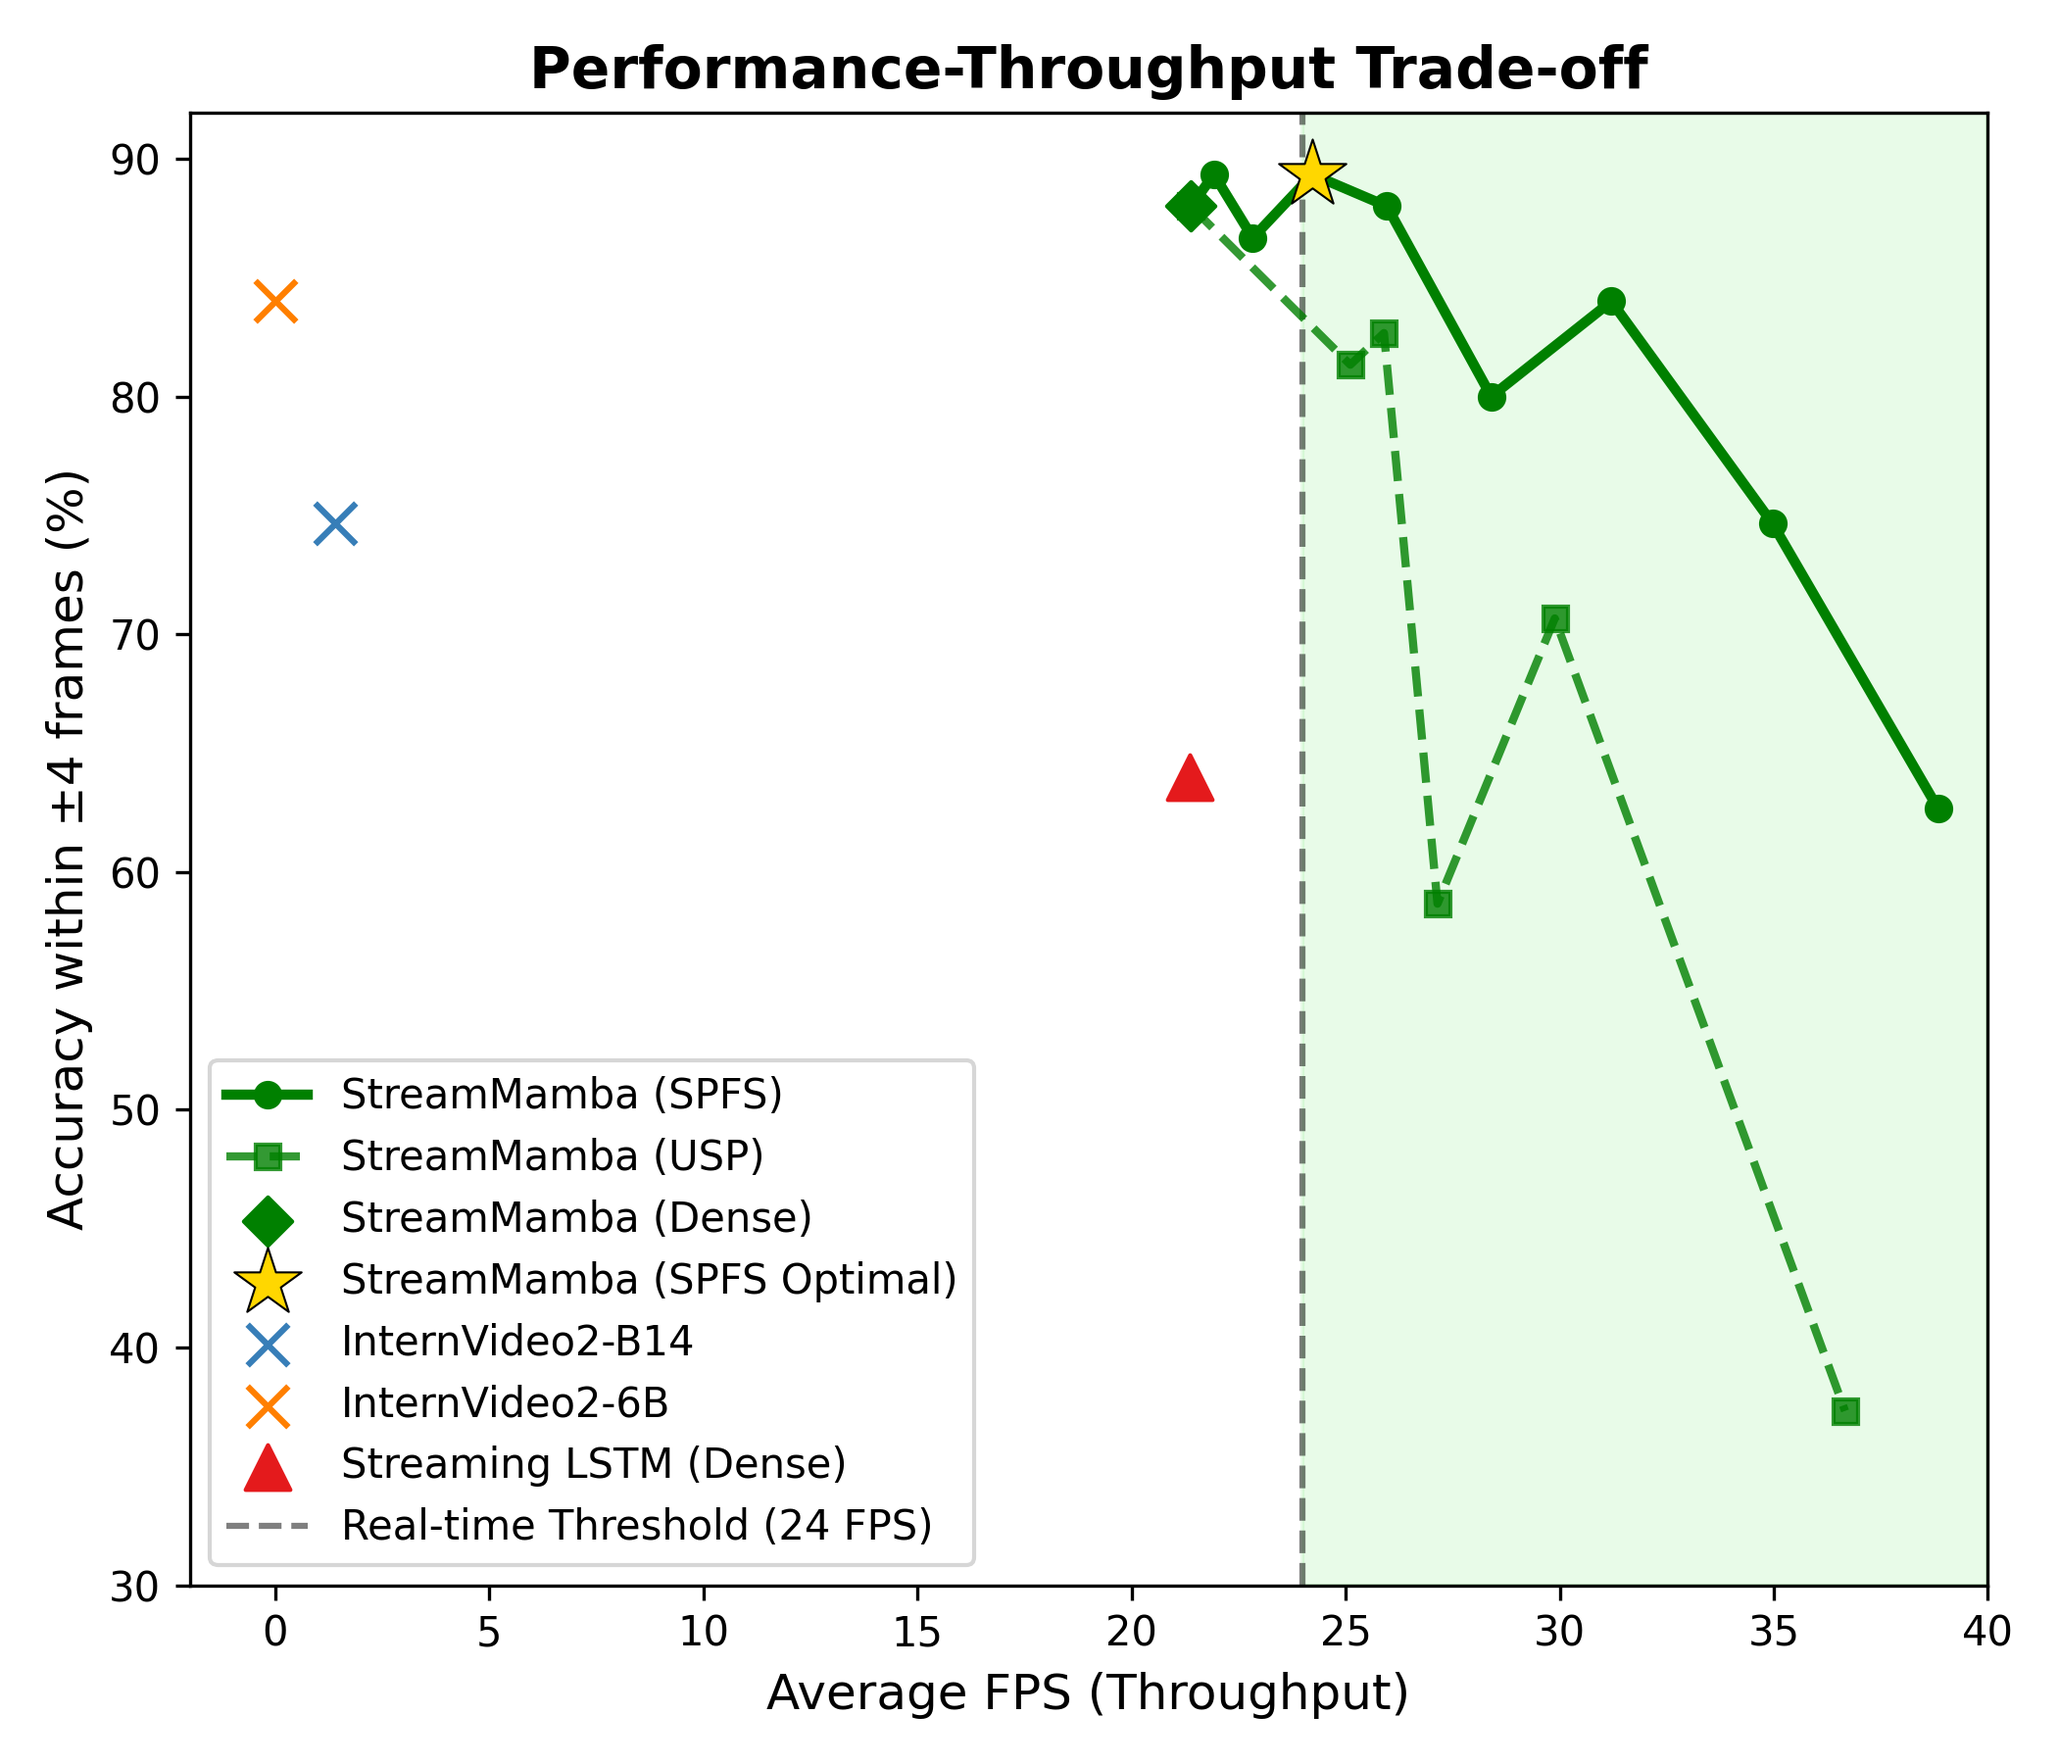
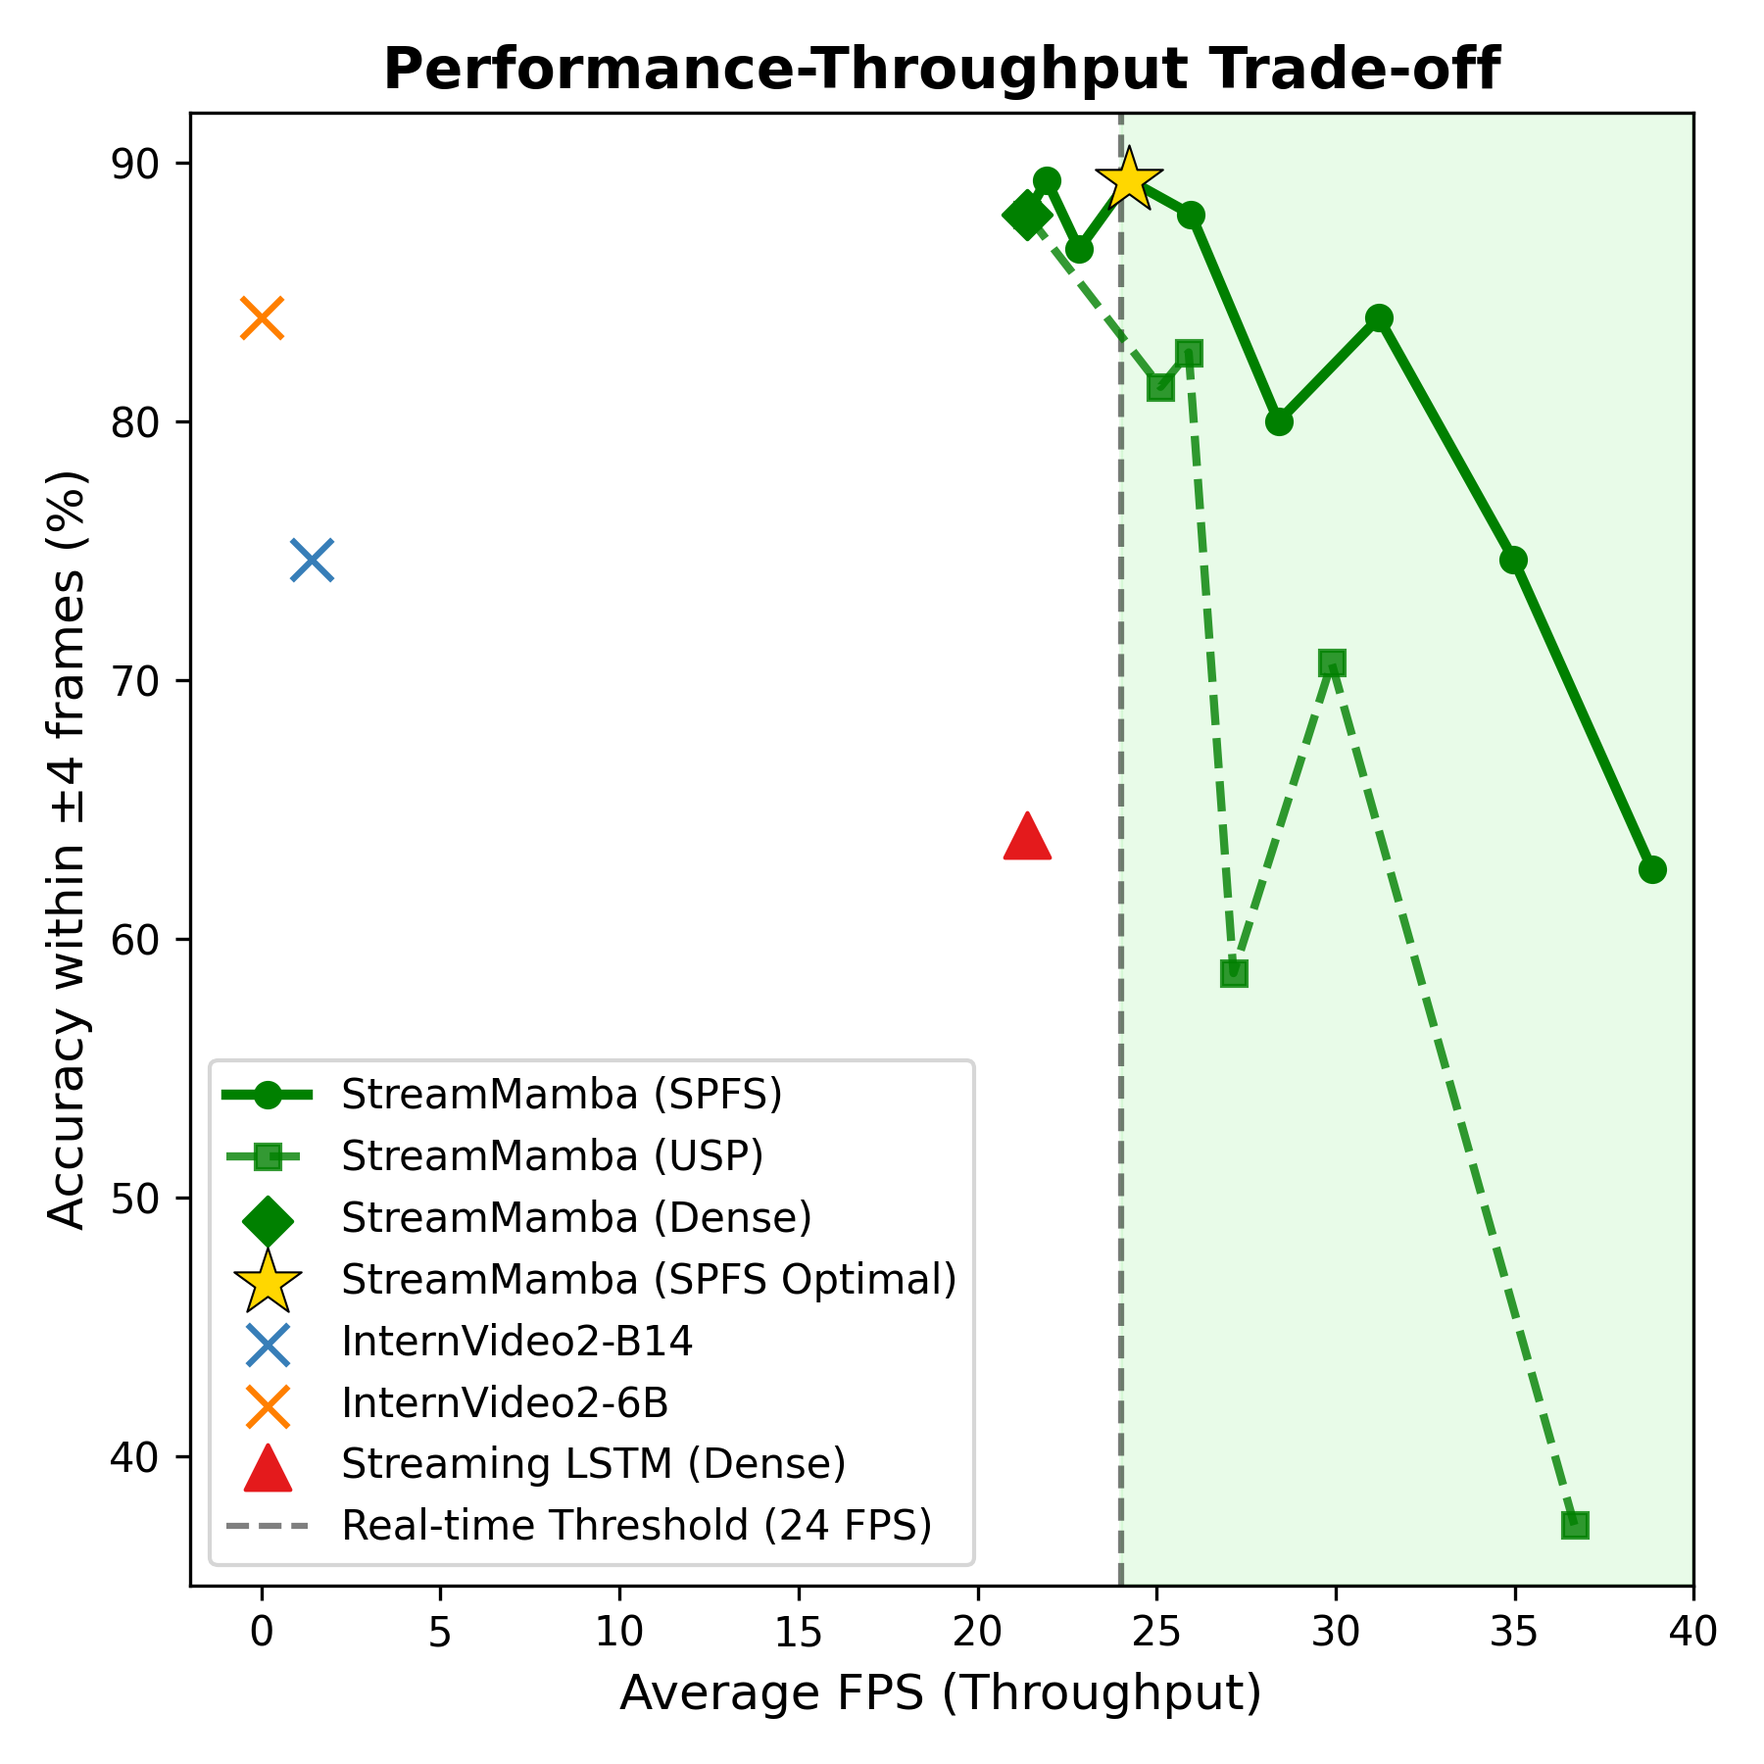
final graph

diff --git a/src/scripts/benchmark/plot_fps_accuracy.py b/src/scripts/benchmark/plot_fps_accuracy.py
@@ -136,7 +136,7 @@ def load_all_data(results_root):
     return spfs_data, usp_data
 
 def generate_plot(spfs_data, usp_data, results_root):
-    plt.figure(figsize=(7, 6))
+    plt.figure(figsize=(6, 6))
 
     if spfs_data:
         spfs_style = STYLES['streambm_spfs']
@@ -200,7 +200,7 @@ def generate_plot(spfs_data, usp_data, results_root):
 
     plt.grid(False)
     plt.xlim(left=-2, right=max_fps_plot)
-    plt.ylim(bottom=30)
+    plt.ylim(bottom=35)
     plt.xlabel('Average FPS (Throughput)', fontsize=12)
     plt.ylabel('Accuracy within ±4 frames (%)', fontsize=12)
     plt.title('Performance-Throughput Trade-off', fontsize=14, fontweight='bold')
